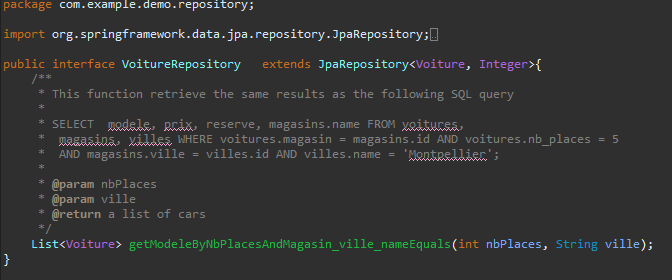
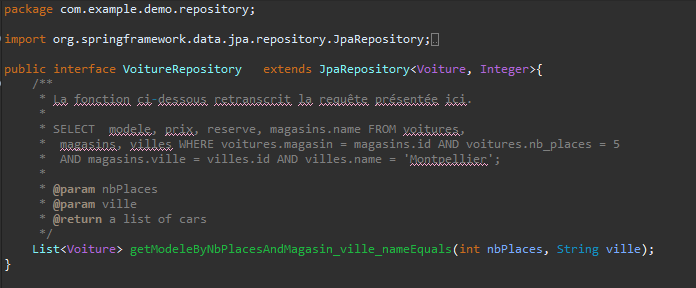
maj

diff --git a/Concessionnaire/src/main/java/com/example/demo/repository/VoitureRepository.java b/Concessionnaire/src/main/java/com/example/demo/repository/VoitureRepository.java
@@ -7,9 +7,9 @@ import com.example.demo.model.Voiture;
 
 public interface VoitureRepository   extends JpaRepository<Voiture, Integer>{
     /**
-     * This function retrieve the same results as the following SQL query
+     * La fonction ci-dessous retranscrit la requête présentée ici.
      * 
-     * SELECT DISTINCT modele, prix, reserve, magasins.name FROM voitures,
+     * SELECT  modele, prix, reserve, magasins.name FROM voitures,
      *  magasins, villes WHERE voitures.magasin = magasins.id AND voitures.nb_places = 5 
      *  AND magasins.ville = villes.id AND villes.name = 'Montpellier';
      * 
